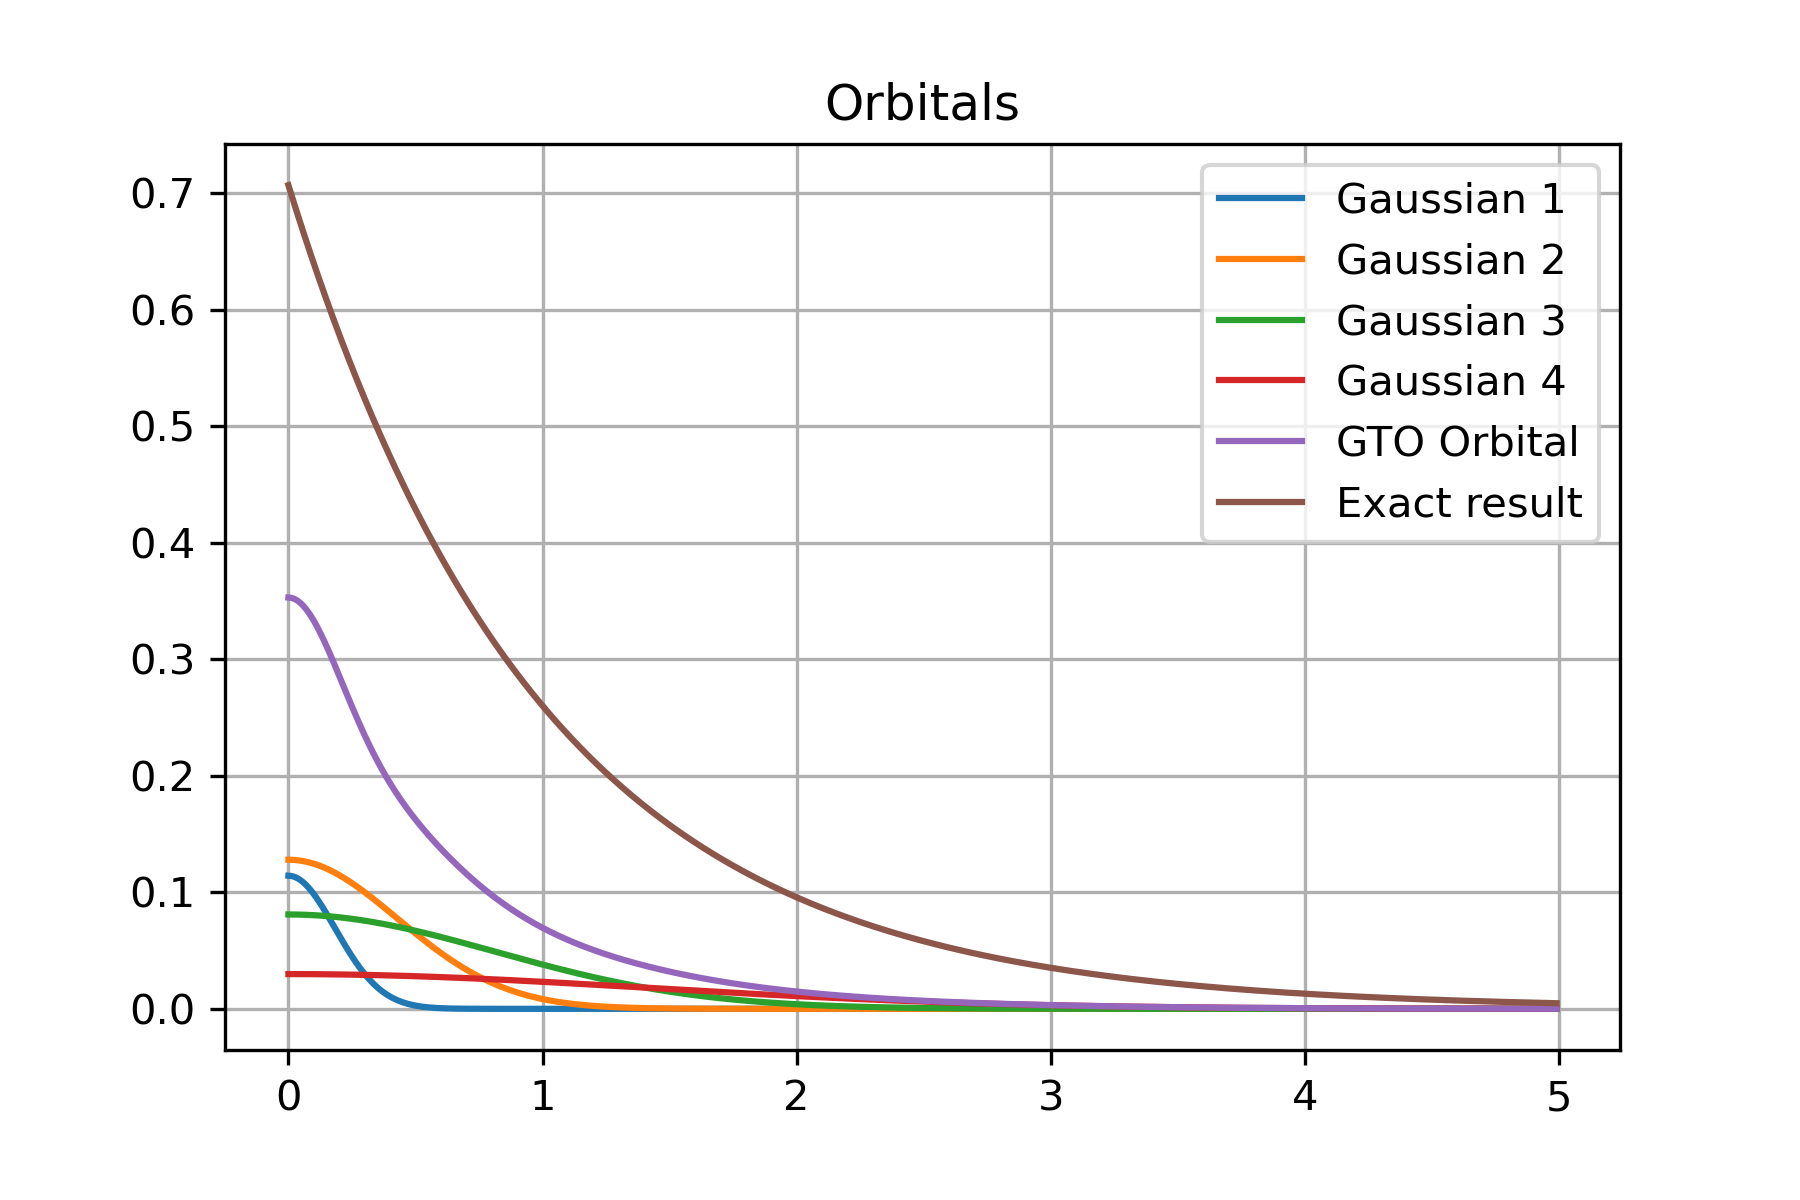
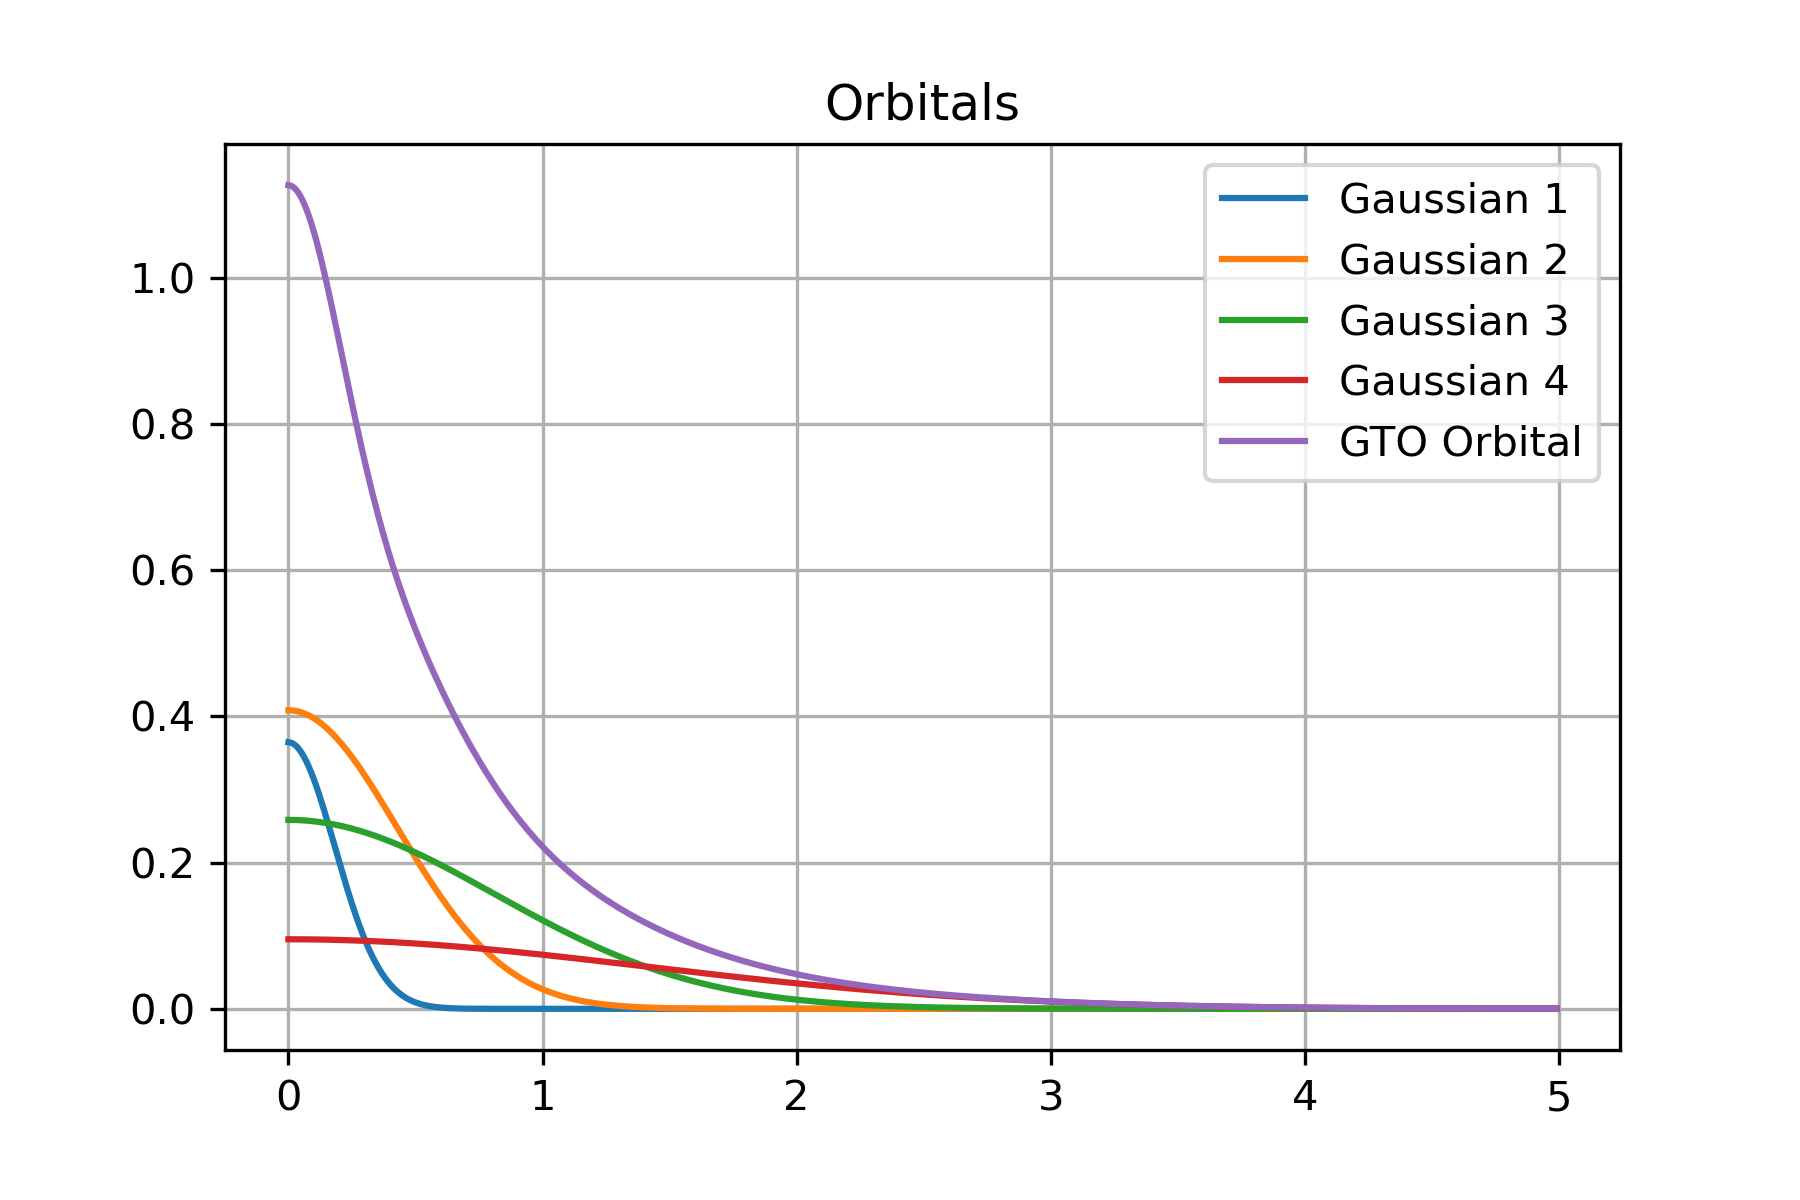
add labels to the axis

diff --git a/Exercise_2/03 - Helium/Helium.py b/Exercise_2/03 - Helium/Helium.py
@@ -282,18 +282,19 @@ def GT2(x, eigvec, alfa):
     return (Gdr(x, eigvec[0], alfa[0]) + Gdr(x, eigvec[1], alfa[1]) \
         + Gdr(x, eigvec[2], alfa[2]) + Gdr(x, eigvec[3], alfa[3]) )**2
 
-r = np.arange(0,5,0.01)
+r = np.arange(0,4,0.01)
 
 # Plot the gaussian, the total wavefunction and the exact result
-
 fig = plt.figure()
-plt.plot(r, -Gdr(r, Cnew[0,0], alfa[0]), label="Gaussian 1")
-plt.plot(r, -Gdr(r, Cnew[1,0], alfa[1]), label = "Gaussian 2")
-plt.plot(r, -Gdr(r, Cnew[2,0], alfa[2]), label = "Gaussian 3")
-plt.plot(r, -Gdr(r, Cnew[3,0], alfa[3]), label = "Gaussian 4")
+plt.plot(r, -Gdr(r, Cnew[0,0], alfa[0]), label=r"Gaussian 1; $\alpha$="+str(alfa[0]))
+plt.plot(r, -Gdr(r, Cnew[1,0], alfa[1]), label=r"Gaussian 2; $\alpha$="+str(alfa[1]))
+plt.plot(r, -Gdr(r, Cnew[2,0], alfa[2]), label=r"Gaussian 3; $\alpha$="+str(alfa[2]))
+plt.plot(r, -Gdr(r, Cnew[3,0], alfa[3]), label=r"Gaussian 4; $\alpha$="+str(alfa[3]))
 plt.plot(r, -GT(r, Cnew[:,0], alfa), label = "GTO Orbital")
 plt.legend()
 plt.grid()
+plt.xlabel(r"Distance $[a_0]$")
+plt.ylabel(r"WF $|\psi(r)|$")
 plt.title("Orbitals")
 plt.savefig("Gaussians_Helium.png", dpi=300)
 
@@ -301,6 +302,8 @@ plt.savefig("Gaussians_Helium.png", dpi=300)
 
 fig = plt.figure()
 plt.plot(r, GT2(r, Cnew[:,0], alfa), label="Density")
+plt.xlabel(r"Distance $[a_0]$")
+plt.ylabel(r"$\rho$")
 plt.legend()
 plt.grid()
 plt.title("Helium Electronic Density")
